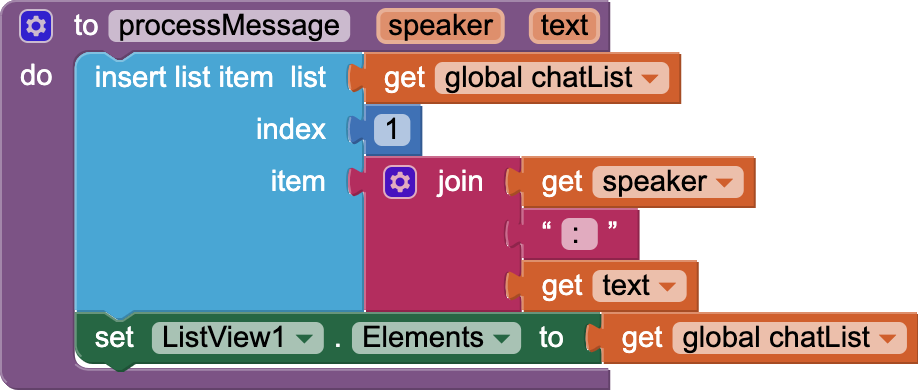
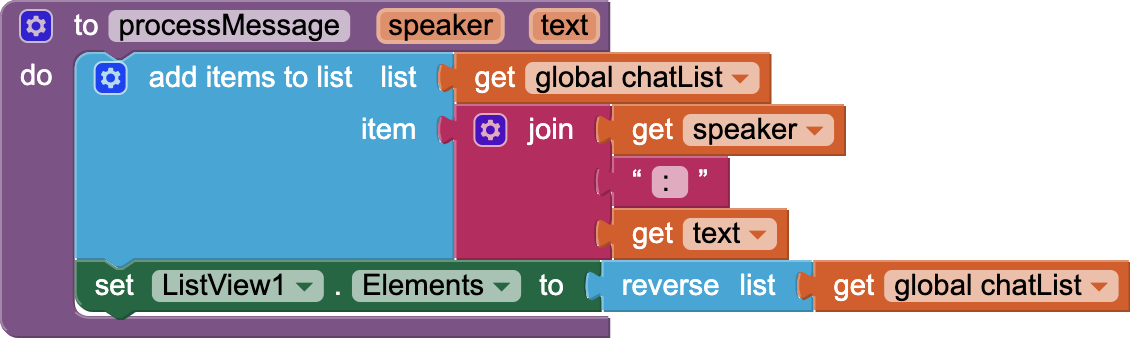
changes based on UROP feedback

diff --git a/yr/tutorials/ChatBot.md b/yr/tutorials/ChatBot.md
@@ -95,7 +95,7 @@ The speaker will either be “AI” or “User” for a given instance of the co
 
 <em><strong>User</strong>: explain the Big Bang Theory</em>
  
-by joining the speaker (“User”) to the text (“explain Big Bang Theory”) with a : (colon) in between. This new text will be inserted at the top of the <em><strong>chatList</strong></em> and then the procedure will update the <strong>ListView</strong> with the newly added text. Note that the <strong>ListView</strong> will display the chat between the user and the AI in reverse order so it is easier to read with the most recent conversation always at the very top.
+by joining the speaker (“User”) to the text (“explain Big Bang Theory”) with a ": " (colon-space) in between. This new text will be added to the <em><strong>chatList</strong></em> and then the procedure will update the <strong>ListView</strong> with the newly added text. Note that the <strong>ListView</strong> will display the chat between the user and the AI in <em>reverse</em> order so it is easier to read with the most recent conversation always at the very top.
 
 ![Procedure processMessage](../images/chatBot/procedure_processMessage.png){:.enlargeImage}
 <p style="padding-bottom: 7px"></p>
@@ -107,6 +107,8 @@ When the <strong>SystemRoleButton</strong> is clicked, assign the <strong>ChatBo
 <em><strong>User</strong>: You are a kindergarten teacher explaining everything at the level of 4 year old children</em>
 
 Once the system role has been assigned, clear the <strong>SystemRoleTextBox</strong> of any text and make invisible the <strong>VerticalArrangement</strong> that holds all the system role assignment components.
+
+Note: Don't forget to include a space after "You are a" in the two join blocks.
 
 ![System Role Assignment](../images/chatBot/whenSystemRoleButtonClick.png){:.enlargeImage}
 <p style="padding-bottom: 7px"></p>
@@ -122,7 +124,7 @@ When the text of the speech is received from Google, the app will create the nex
 
 <em><strong>User</strong>: explain the Big Bang Theory</em>
 
-Also include code to send this text to ChatGPT as a query:
+Also include code to send this text to ChatGPT as a question:
 
 ![When SpeechRecognizer After Getting Text](../images/chatBot/whenSpeechRecognizerAfterGettingText.png){:.enlargeImage}
 <p style="padding-bottom: 7px"></p>
@@ -140,7 +142,7 @@ And make the <strong>TextToSpeech</strong> component read this response out loud
 
 ## Coding the GUI functionality (6)
 
-Finally, when the user clicks <strong>ResetConversationButton</strong>, reset the conversation, initialize the variable <em><strong>chatList</strong></em> to an empty list, clear the <strong>ListView</strong>, and make visible the <strong>VerticalArrangement</strong> that hosts system role assigning components.
+Finally, when the user clicks <strong>ResetConversationButton</strong>, reset the conversation, set the variable <em><strong>chatList</strong></em> to an empty list, clear the <strong>ListView</strong>, and make visible the <strong>VerticalArrangement</strong> that hosts system role assigning components.
 
 ![When ResetConversationButton Clicked](../images/chatBot/whenResetConversationButtonClick.png){:.enlargeImage}
 <p style="padding-bottom: 7px"></p>
@@ -153,7 +155,7 @@ Now test your app by scanning the QR Code generated via your AI2 Companion.  Giv
 
 <em><strong>User</strong>: Explain why the chicken crossed the road </em>
 
-Please note that unless you use your own OpenAI API key, the number of queries you can make to ChatGPT is limited.  This limit is approximately 10,000 tokens at the time of the writing of this tutorial, where a token is roughly a word, which includes ChatGPT's responses to you.
+Please note that unless you use your own OpenAI API key, the number of questions you can ask ChatGPT is limited.  This limit is approximately 10,000 tokens at the time of the writing of this tutorial, where a token is roughly a word, which includes ChatGPT's responses to you.
 
 Congratulations! You just created a powerful app that will allow you to chat with ChatGPT at the touch of a button and access a reservoir of knowledge and wisdom. 
 
@@ -171,7 +173,7 @@ Congratulations! You just created a powerful app that will allow you to chat wit
 
 * Get your own OpenAI API key so the number of conversations you can have with ChatGPT is not limited.
 
-* ChatBot component allows you to access chatbot API’s other than the default ChatGPT API via the <em>Provider</em> property.  Explore these other options.
+* ChatBot component allows you to access chatbot API’s other than the default ChatGPT API via the <em>Provider</em> property.  An example would be Google's PaLM. Explore these other options.
 
 * Explore the new <strong>ImageBot</strong> component which uses generative AI of DALL-E to create fascinating visuals.
 
